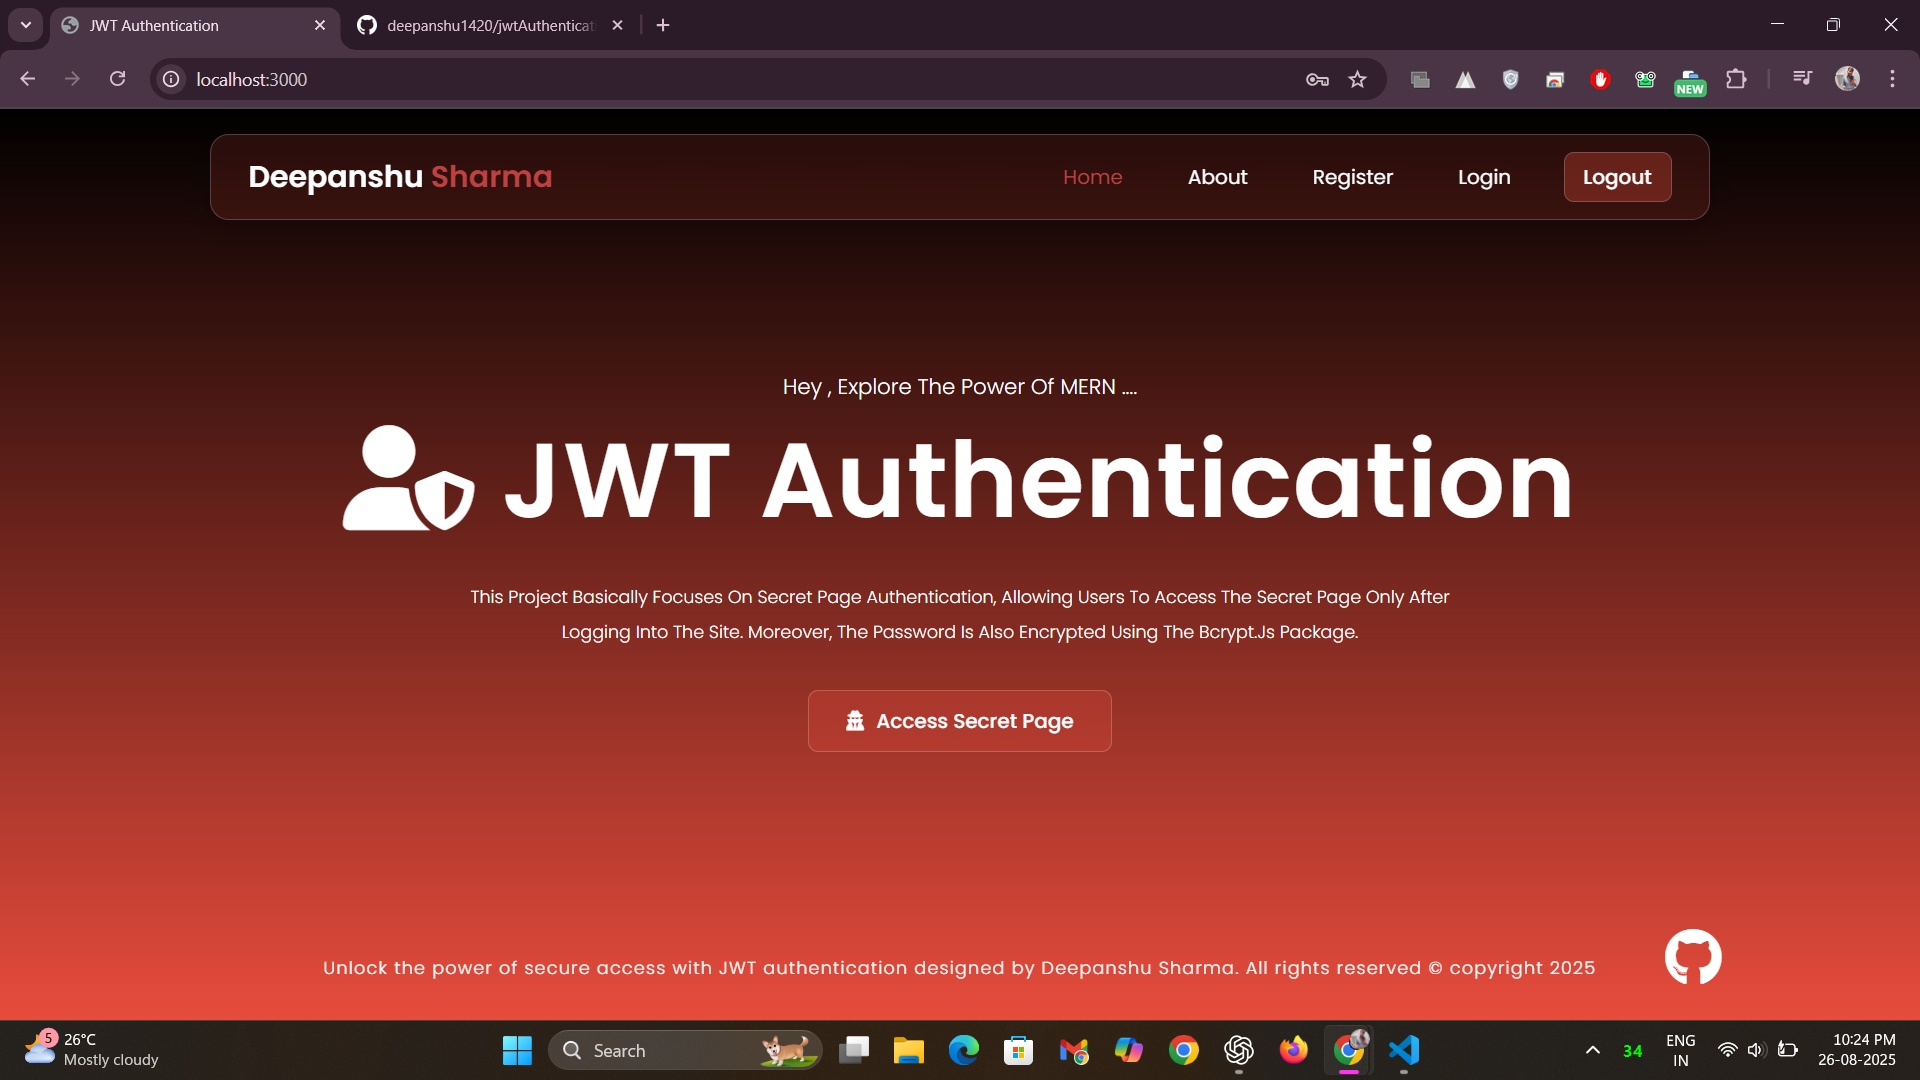
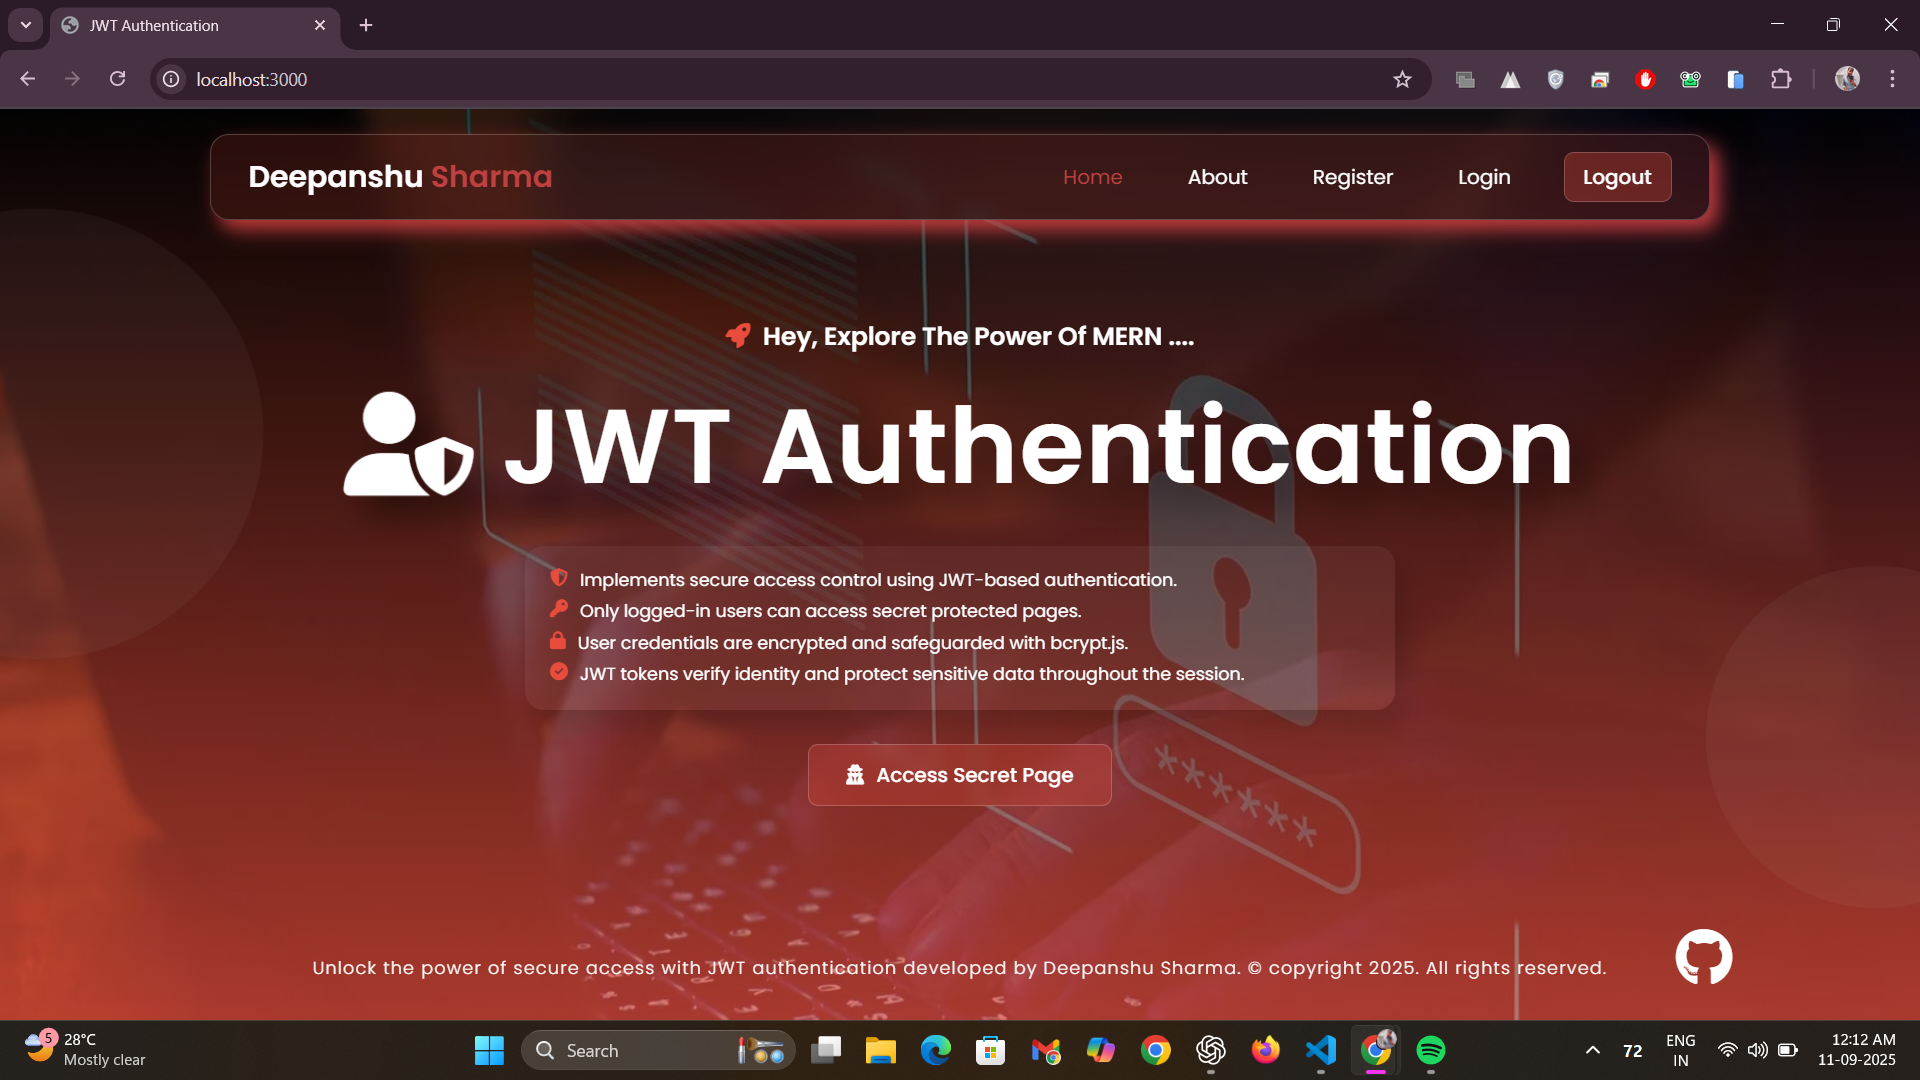
Readmefile updated!

diff --git a/README.md b/README.md
@@ -6,6 +6,11 @@
 
 ---
 
+## 🌐 Live Demo
+[🛡 Unlock the Power of JWT Authentication](https://jwtauth-secure.vercel.app/)
+
+---
+
 ## 🌟 Overview
 
 A secure, server-rendered authentication system built with Node.js and Express. It leverages JWT tokens for session management, bcrypt for password hashing, and MongoDB (via Mongoose) for storing user data. Handlebars.js (hbs) is used for dynamic server-side rendering of pages.  
@@ -14,6 +19,7 @@ A secure, server-rendered authentication system built with Node.js and Express. 
 - JWTs are used to protect sensitive routes.  
 - Passwords are securely hashed with bcrypt.  
 - Environment variables are stored in a `.env` file.  
+- Fast internet required for smooth rendering and DB access; slow connection may cause login issues.
 
 ---
 
@@ -23,7 +29,9 @@ A secure, server-rendered authentication system built with Node.js and Express. 
 - **User Login** – Authenticate users and issue JWT tokens.  
 - **Protected Routes** – Access restricted pages only if logged in.  
 - **Logout** – Safely terminate session by clearing JWT.  
-- **Server-Side Rendering** – Pages rendered using Handlebars templates.  
+- **Server-Side Rendering** – Pages rendered using Handlebars templates.
+- **Form Validation** – Real-time checks and server-side sanitization for all forms.
+- **Modern UI & Animations** – Liquid glass-style components with responsive design and smooth effects.  
 
 ---
 
@@ -80,6 +88,14 @@ A secure, server-rendered authentication system built with Node.js and Express. 
 ### 6. Logout
 ![Logout](./screenshots/logout.png)  
 *JWT cleared from cookies, ending user session securely.*
+
+### 7. Mobile View (HomePage)
+![Mobile Home](./screenshots/MobileHome.png)  
+*Responsive layout using CSS flex/grid, optimized navigation and content display for smaller screens.*
+
+### 8. Mobile View (Secret Page)
+![Mobile Secret Page](./screenshots/MobileSecretPage.png)  
+*Protected page adapts to mobile viewports, ensuring secure content access and usability on handheld devices.*
 
 ---
 
